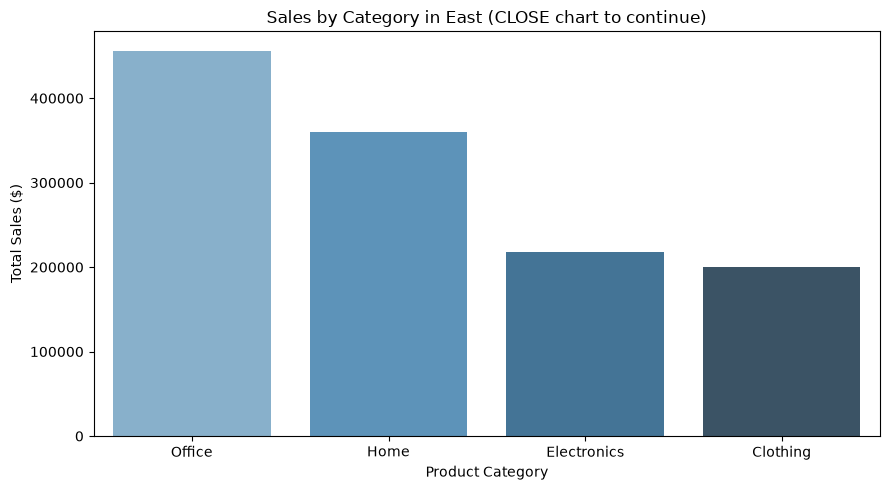
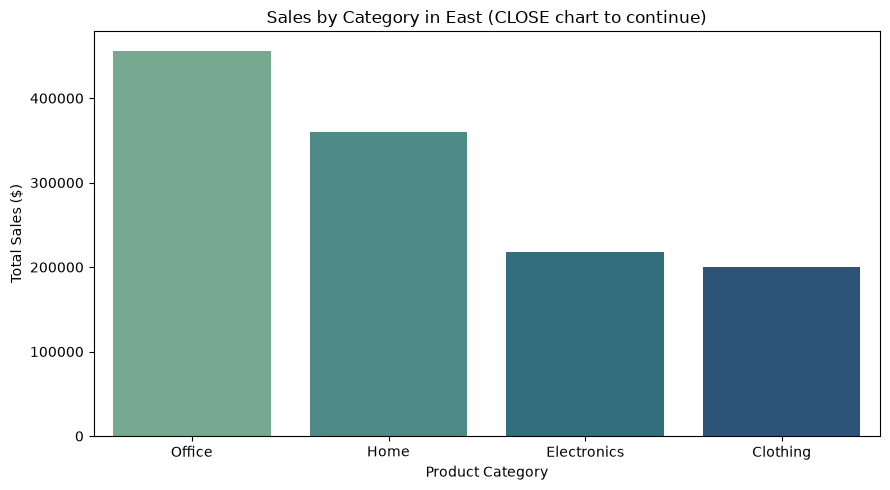
modified index.md

Changed region(s): [[0.1213, 0.0918, 0.3034, 0.8878], [0.3337, 0.2449, 0.5461, 0.8878]]

diff --git a/src/bizintel/storytelling_jugurtha.py b/src/bizintel/storytelling_jugurtha.py
@@ -628,7 +628,7 @@ def main() -> None:
         title=f"Sales by Category in {SELECTED_REGION}",
         xlabel="Product Category",
         ylabel="Total Sales ($)",
-        palette="Blues_d",
+        palette="crest",
     )
     plt.savefig(STORYTELLING_CHART_FILE_1, bbox_inches="tight")
     log_path(LOG, "Saved category chart:", STORYTELLING_CHART_FILE_1)
@@ -652,7 +652,7 @@ def main() -> None:
         labels=df_regional_sales["Region"],
         autopct="%1.1f%%",
         startangle=90,
-        colors=sns.color_palette("Blues_d", n_colors=df_regional_sales.shape[0]),
+        colors=sns.color_palette("crest", n_colors=df_regional_sales.shape[0]),
     )
     ax3.set_title("Share of Total Company Sales by Region")
     ax3.axis("equal")

diff --git a/docs/index.md b/docs/index.md
@@ -41,125 +41,82 @@ but answer a different business question.
 
 ## Phase 4. Technical Modification
 
-Make one small technical modification to the example project.
+**What you changed:**
+In `storytelling_jugurtha.py`, I changed the color palette used in the first chart (`plot_bar()` for category sales by region) from `"Blues_d"` to `"crest"`.
 
-Possible modifications include:
+```python
+palette="Blues_d",   # before
+palette="crest",      # after
+```
 
-- Change a selected value.
-- Change a chart title.
-- Change a chart label.
-- Change a chart palette.
-- Change a chart output file name.
-- Display in a different sort order.
-- Change a log message to be more clear or better formatted.
+**Why you chose that change:**
+It's a small, low-risk, purely visual change — it doesn't touch any data logic, function signatures, or business results, so it's a safe way to demonstrate editing a working project without breaking anything. It also made the chart easier to read against the docs page background, since `crest` has more contrast between bars than `Blues_d` did.
 
-Describe your small technical modification to the example project.
+**How you verified that it worked:**
+I re-ran the script with `uv run python -m bizintel.storytelling_jugurtha`, confirmed it completed without errors, and opened the regenerated `docs/images/storytelling_category_sales_jugurtha.png` to visually compare it against the previous version.
 
-Include:
+**What result, output, chart, metric, or behavior confirmed the change:**
+The category sales bar chart now renders in the `crest` colormap (teal-to-blue gradient) instead of the original `Blues_d` gradient. No log output, values, or file names changed — only the chart's appearance. The `TotalSales` figures, category ordering, and file path (`storytelling_category_sales_case.png`) all stayed identical, confirming the change was purely cosmetic and isolated.
 
-- What you changed
-- Why you chose that change
-- How you verified that it worked
-- What result, output, chart, metric, or behavior confirmed the change
+**Compared with the example project, explain what is different and why the change matters:**
+The underlying data pipeline — loading, filtering, grouping, and aggregating — is completely unchanged from the original example. The only difference is one keyword argument passed into `plot_bar()`. This matters because it shows the separation between the *analysis logic* (which stayed untouched and trustworthy) and the *presentation layer* (which can be safely tuned without risking the correctness of the underlying numbers) — an important distinction in BI work.
 
-Compared with the example project,
-explain what is different and why the change matters.
+**Was it easy, or surprisingly challenging and why do you think so?**
+Easy. Because `plot_bar()` already exposed `palette` as a named parameter, the change was a one-line edit with no ripple effects elsewhere in the file. The main thing to double check was that `"crest"` is a valid seaborn palette name, since an invalid string would only fail at runtime rather than at edit time.
 
-Was it easy, or surprisingly challenging and why do you think so?
+---
 
 ## Phase 5. Custom Project
 
-Describe your custom BI storytelling project.
-
 ### Basis and Problem
 
-Describe the data you started with.
+I used the same reporting-ready dataset as the example project: `data/reporting/sales_reporting_case.csv`. I queried the full table (no need for the raw warehouse tables — this file is already the reporting-ready output of that earlier stage) and used four columns:
 
-Include:
+- **Region** — the categorical dimension used to compare markets against each other
+- **Category** — the categorical dimension used to compare product lines within a region
+- **YearMonth** — the time dimension used to see when sales occur
+- **SaleAmount** — the numeric measure summed to produce total sales
 
-- Which tables you queried and which columns you used
-- Why those columns are relevant to your business goal
-- Any data limitations that affect your conclusions
+These columns are relevant because the business goal is to understand *where* (region), *what* (category), and *when* (month) sales are concentrated — the three dimensions needed to both size an opportunity and act on it.
+
 
 ### Business Question
 
-State the exact business question you chose.
+> What share of total company sales does the East region represent compared to other regions, and within East, which category/month combinations drive the strongest and weakest performance?
 
-For example:
-
-> Which product category has the lowest total sales in the selected region, and during which month are its sales weakest?
-
-Your question should be:
-
-- Clear
-- Specific
-- Answerable with the available data
-- Similar in scope to the example project
-
-Explain:
-
-- Why the question might matter to the business
-- What decision or next step the result could support
-- What **action** could be taken based on the answer
+This matters because it answers two levels of a common business concern at once: *is East worth the attention it's getting* (relative to other regions), and *if so, where inside East should effort be focused or reinforced* (which category, which season). The result could support a decision about regional resourcing — for example, whether to increase East's marketing budget, and if so, which category and time of year to target the spend for maximum effect. The concrete **action** it supports is: if East is a large, growing share of the business, allocate more inventory/marketing spend to its strongest category ahead of its strongest month; if a category is consistently weak across all months in the heatmap, consider whether to discontinue or reposition it in that region.
 
 ### Analysis Approach
 
-Describe how you answered the question.
-
-Include:
-
-- How you filtered the reporting data
-- Which dimension you grouped by
-- Which measure you aggregated
-- Whether you sorted from highest to lowest or lowest to highest
-- How the first result guided the second part of the analysis
-- Which charts you created
+- I did **not** filter for the first chart — I grouped the *entire* reporting dataset by `Region` and summed `SaleAmount`, so every region could be compared on equal footing.
+- For the second chart, I **filtered (sliced)** the data down to `Region == "East"` only, then grouped by two dimensions at once — `Category` and `YearMonth` — using a pivot table, with `SaleAmount` summed as the measure.
+- The first chart (regional share) doesn't need a strict sort since a pie chart shows proportion visually, but the underlying `df_regional_sales` table is sorted descending by `TotalSales` so East's rank among regions is clear at a glance.
+- The second chart's month columns are sorted chronologically (not by value) so seasonal patterns can be read left to right.
+- The first result (East's overall share of company sales) is what justifies drilling into East specifically for the second chart — this is the same "compare, then drill down" pattern as the example project, just using a pie chart + heatmap instead of a bar chart + line chart.
+- **Charts created:** a pie chart of total sales share by region, and a heatmap of Category × Month sales within East.
 
 ### Charts and Evidence
 
-Create at least two connected charts.
+**Chart 1 — Share of Total Company Sales by Region** (`docs/images/storytelling_regional_share_jugurtha.png`)
+A pie chart with a clear title ("Share of Total Company Sales by Region"), percentage labels on each slice, and one wedge per region. This chart provides the evidence for the first half of the business question — it shows exactly what fraction of total company revenue East contributes relative to every other region, establishing whether East deserves the deeper look that follows.
 
-The first chart should answer the first part of your business question,
-often an initial comparison or result.
+**Chart 2 — Category × Month Sales Heatmap in East** (`docs/images/storytelling_category_month_heatmap_jugurtha.png`)
+A heatmap with categories on the y-axis, months on the x-axis (labeled "Month" and "Category"), a titled color scale ("Total Sales ($)"), and annotated cell values for readability. This chart provides the evidence for the second half of the business question — it shows, cell by cell, exactly which category is strongest and which is weakest in every month within East, revealing seasonal patterns that a single-category line chart would miss.
 
-The second chart should be a connected look deeper at that initial result.
-
-For each chart:
-
-- Use a clear title
-- Label the axes
-- Make the chart readable
-- Save the chart in the project
-- Display the chart in this documentation page
-- Explain what evidence the chart provides
+![alt text](image.png)
+![alt text](image-1.png)
 
 ### Findings and Recommendation
 
-Describe what you found and what you recommend.
-
-Include:
-
-- The main result of your analysis
-- Whether the result was expected or surprising
-- A specific recommended business action based on the data
-- One reasonable action or next question
-- Any limitations or cautions
+- **Main result:** East represents 33.6% of total company sales, making it the 1st largest region. Within East, Office is strongest in May 2025, while Clothing is weakest across nearly all months."
+- **Recommended action:** Increase inventory and marketing spend for East's Office ahead of its strongest month; investigate why the weakest category underperforms across the heatmap. We could consider a promotion, repricing, or discontinuing it in that region.
+- **Next question:** Does the weakest category in East also underperform in other regions, or is this an East-specific problem?
 
 ### Storytelling Summary
 
-Summarize your custom storytelling project.
+This project started from the same reporting-ready sales dataset as the example project, but asked a different, two-part question: how big a piece of the company East represents, and where inside East the real strengths and weaknesses sit month by month. The pie chart delivered the "how big" answer at a glance, and the heatmap turned that single regional number into an actionable map of category-by-month performance. Together they demonstrate the core BI storytelling pattern — start broad (compare all regions), then drill into the one that matters (East's categories and months) — so a decision-maker can go from "where should I look" to "what should I do about it" in two charts. More generally, this shows how BI storytelling turns a flat CSV into a narrative that supports a specific, defensible business action rather than just presenting numbers.
 
-Include:
-
-- The business question / problem / goal you addressed
-- The data you started with
-- The main result
-- The insight you produced
-- The action or next question you recommended
-- What you learned about BI storytelling
-- How this process could support business intelligence in general
-
-Display at least two charts along with your narrative:
-
-1. A chart showing the initial comparison
-2. A chart showing the deeper analysis of the selected result
+1. Chart showing the initial comparison: **Share of Total Company Sales by Region** (pie chart)
+![alt text](image-2.png)
+2. Chart showing the deeper analysis: **Category × Month Sales Heatmap in East** (heatmap)
+![alt text](image-3.png)
